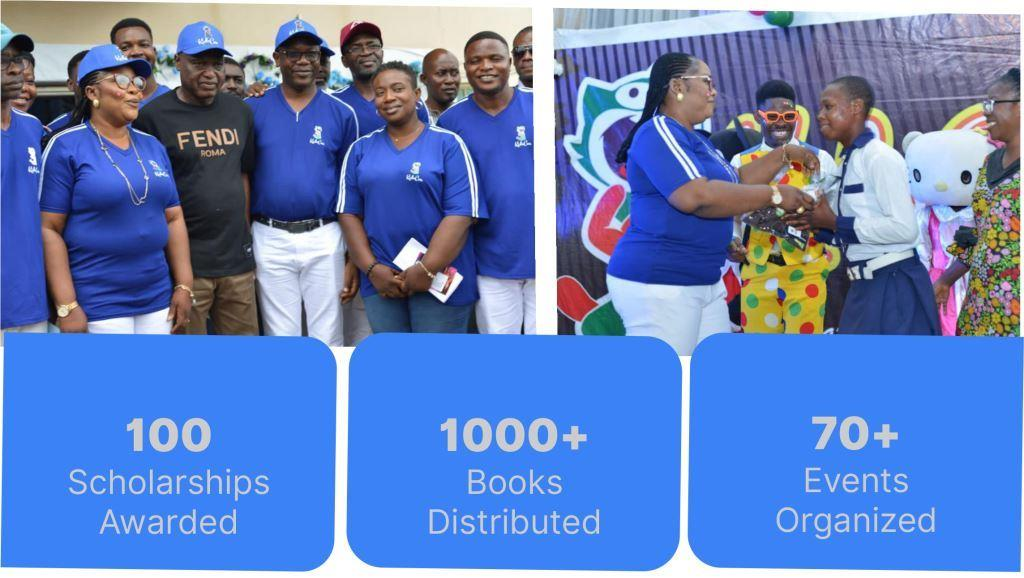
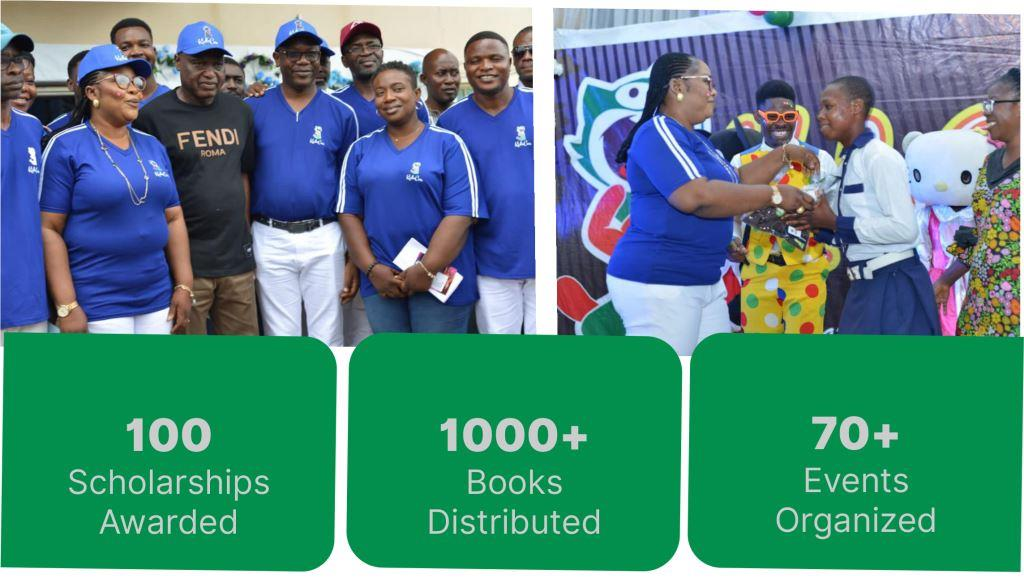
another UI fix

diff --git a/css/style.css b/css/style.css
@@ -93,7 +93,7 @@ body {
 .custom_nav-container .navbar-nav .nav-item .nav-link {
   padding: 3px 15px;
   margin: 10px 15px;
-  color: #3b82f6;
+  color: #028f4d;
   text-align: center;
   text-transform: capitalize;
 }
@@ -126,7 +126,7 @@ a:focus {
 .navbar-brand span {
   font-size: 24px;
   font-weight: 700;
-  color: #3b82f6;
+  color: #028f4d;
   text-transform: capitalize;
 }
 
@@ -167,7 +167,7 @@ a:focus {
   left: 0;
   height: 100%;
   width: 100%;
-  background-color: #3b82f6;
+  background-color: #028f4d;
   border-radius: 15px;
   top: -10px;
   -webkit-transition: all 0.3s;
@@ -205,7 +205,7 @@ a:focus {
 }
 
 .quote_btn-container a {
-  color: #3b82f6;
+  color: #028f4d;
   margin-right: 25px;
   text-transform: uppercase;
 }
@@ -272,17 +272,17 @@ a:focus {
 .slider_section .detail-box .btn-box .btn1 {
   display: inline-block;
   padding: 10px 15px;
-  background-color: #3b82f6;
+  background-color: #028f4d;
   color: #ffffff;
   border-radius: 10px;
-  border: 1px solid #3b82f6;
+  border: 1px solid #028f4d;
   -webkit-transition: all .2s;
   transition: all .2s;
 }
 
 .slider_section .detail-box .btn-box .btn1:hover {
   background-color: transparent;
-  color: #3b82f6;
+  color: #028f4d;
 }
 
 
@@ -341,7 +341,7 @@ a:focus {
   text-align: center;
   font-weight: 600;
   font-size: 1.5rem;
-  color: #3b82f6;
+  color: #028f4d;
 
 }
 
@@ -351,7 +351,7 @@ a:focus {
 }
 
 .furniture_section .box .detail-box span {
-  color: #3b82f6;
+  color: #028f4d;
 }
 
 
@@ -499,7 +499,7 @@ a:focus {
 
 /* footer section*/
 .info_section {
-  background-color: #3b82f6;
+  background-color: #028f4d;
   color: #ffffff;
   padding-top: 45px;
   padding-bottom: 45px;
@@ -632,9 +632,9 @@ a:focus {
   display: inline-block;
   padding: 10px 45px;
   background-color: white;
-  color: #3b82f6;
+  color: #028f4d;
   border-radius: 0px;
-  border: 1px solid #3b82f6;
+  border: 1px solid #028f4d;
   -webkit-transition: all .2s;
   transition: all .2s;
   border-radius: 10px;

diff --git a/team.html b/team.html
@@ -112,7 +112,7 @@
   <section class="furniture_section layout_padding">
     <div class="container">
       <div class="heading_container">
-        <h2>Board of Trustees</h2>
+        <h2>Board of Directors</h2>
       </div>
       <div class="row">
         <div class="col-md-6 col-lg-4">
@@ -180,7 +180,7 @@
               </h5>
               <div class="price_box">
                 <h6 class="price_heading">
-                  Secretary
+                  Board of Directors Secretary
                 </h6>
               </div>
             </div>
@@ -195,11 +195,11 @@
               <h5>
                 Prince Biyi Poroye
               </h5>
-              <!-- <div class="price_box">
-                  <h6 class="price_heading">
-                    Jugdge
-                  </h6>
-                </div>-->
+              <div class="price_box">
+                <h6 class="price_heading">
+                  Consultant
+                </h6>
+              </div>
             </div>
           </div>
         </div>
@@ -398,7 +398,7 @@
               </h5>
               <div class="price_box">
                 <h6 class="price_heading">
-                  General Supervisor
+                  General Coordinator
                 </h6>
               </div>
             </div>

diff --git a/gallery.html b/gallery.html
@@ -83,6 +83,9 @@
           <img class="d-block w-100" src="./images/Gallery/slide-1.jpg" alt="First slide">
         </div>
         <div class="carousel-item">
+          <img class="d-block w-100" src="./images/Gallery/slide-18.png" alt="Sixteenth slide">
+        </div>
+        <div class="carousel-item">
           <img class="d-block w-100" src="./images/Gallery/slide-2.jpg" alt="Second slide">
         </div>
         <div class="carousel-item">
